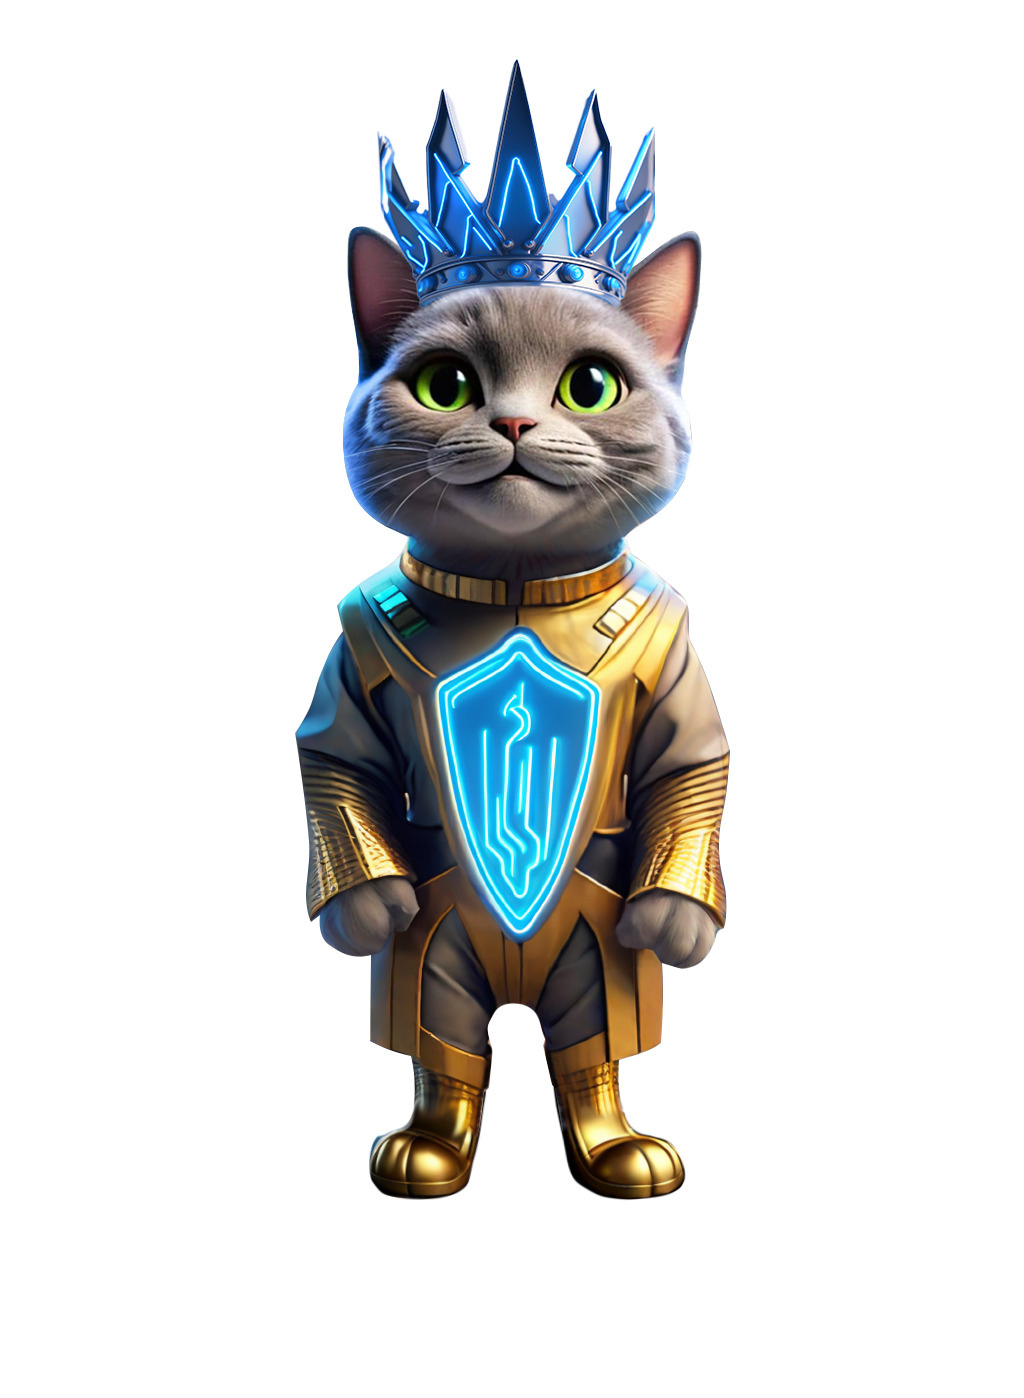
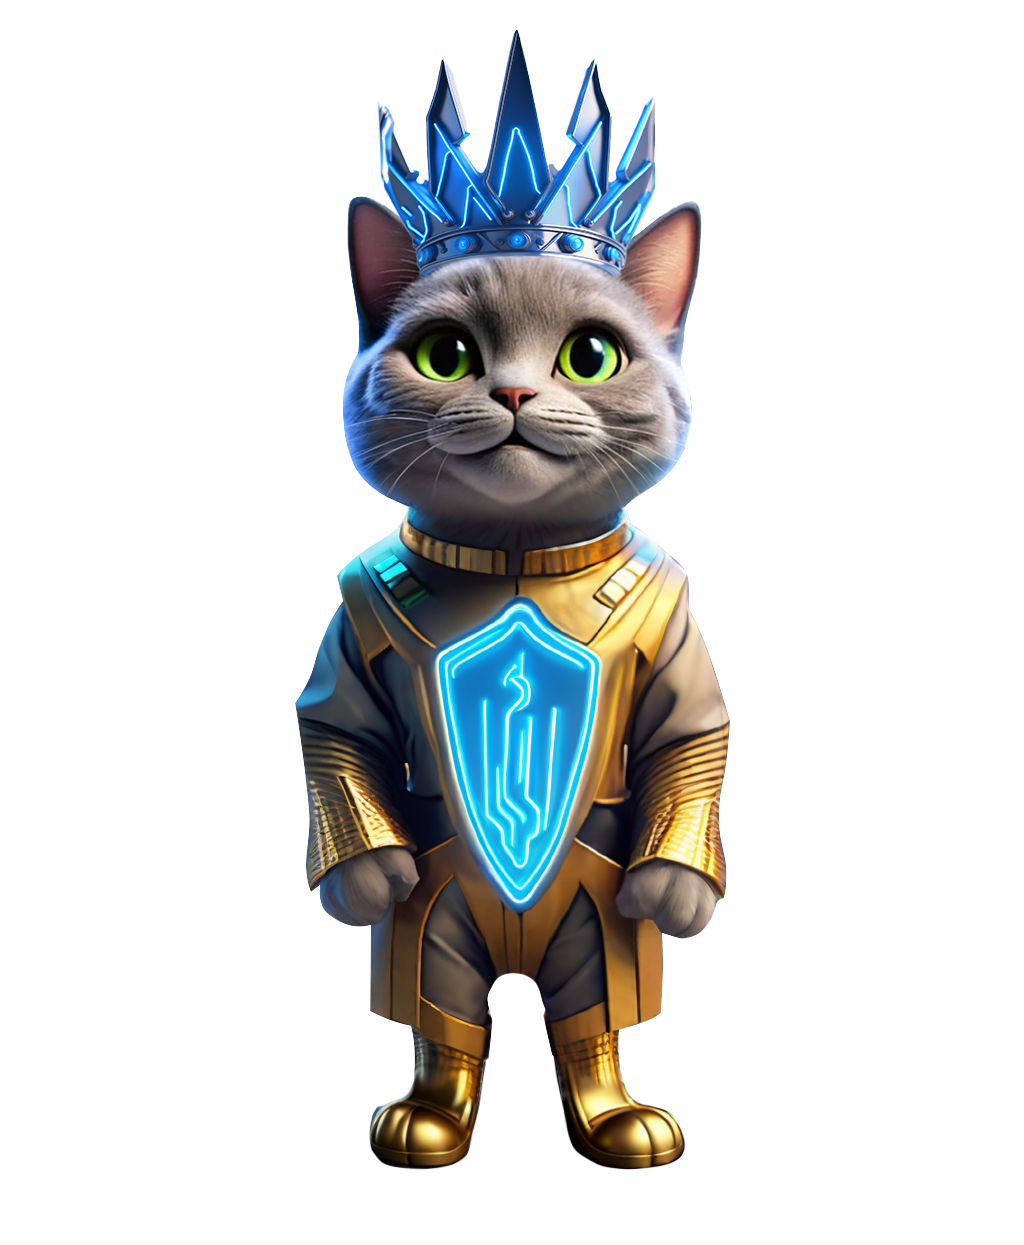
fixed imgs slider cut, lowered max width to 1500

Changed region(s): [[0.2812, 0.0305, 0.7188, 0.9462]]

diff --git a/app/pages/Hero/AboutSection/HowItWorks/HowItWorks.tsx b/app/pages/Hero/AboutSection/HowItWorks/HowItWorks.tsx
@@ -89,15 +89,15 @@ const HowItWorks = () => {
           item={inGameSliderItems.mining}
           className="slider "
           uniqueKey="mining"
-          imgHeight={isMobile ? "149px" : "auto"}
-          imgWidth={isMobile ? "149px" : "auto"}
+          imgHeight={isMobile ? "149px" : "392px"}
+          imgWidth={isMobile ? "149px" : "415px"}
         />
         <InGameSlider
           item={inGameSliderItems.stakes}
           className="slider "
           uniqueKey="staking"
-          imgHeight={isMobile ? "187.44px" : "auto"}
-          imgWidth={isMobile ? "187.44px" : "auto"}
+          imgHeight={isMobile ? "230.44px" : "557px"}
+          imgWidth={isMobile ? "200.44px" : "457px"}
         />
 
         <div className="info-cards-desktop">

diff --git a/app/pages/Hero/TitleSection/TitleSection.tsx b/app/pages/Hero/TitleSection/TitleSection.tsx
@@ -4,7 +4,7 @@ import "./style.scss";
 
 const TitleSection = () => {
   return (
-    <div className="title-section">
+    <div className="container-max-width-1920 title-section">
       <div className="info-container">
         <p className="action-text">Build your mining empire to become the</p>
         <div className="big-text-img">

diff --git a/app/pages/Hero/TitleSection/style.scss b/app/pages/Hero/TitleSection/style.scss
@@ -5,7 +5,7 @@
   z-index: 1000;
 
   height: 100vh;
-  max-height: 1080px;
+  max-height: 900px;
 
   background-image: url("/imgs/title-section/title-section-bg.png");
   background-size: cover;

diff --git a/styles/global.scss b/styles/global.scss
@@ -19,7 +19,8 @@ body {
 }
 
 .container-max-width-1920 {
-  max-width: 1920px;
+  max-width: 1500px;
+  // max-width: 1920px;
   width: 100%;
   margin-left: auto;
   margin-right: auto;

diff --git a/app/pages/Wrapper/style.scss b/app/pages/Wrapper/style.scss
@@ -33,7 +33,7 @@
       top: 0;
       left: 50%;
       transform: translateX(-50%);
-      max-width: 1920px;
+      max-width: 1500px;
       width: 100%;
 
       display: flex;
